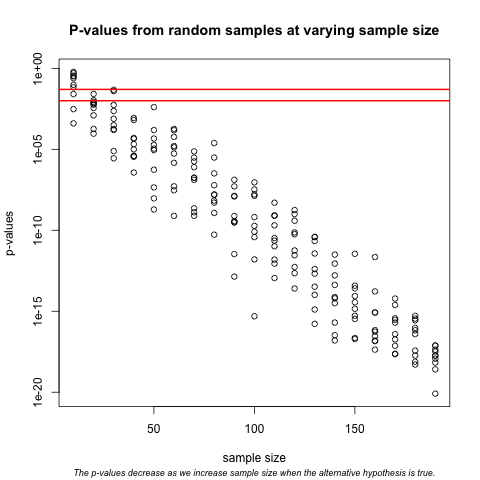
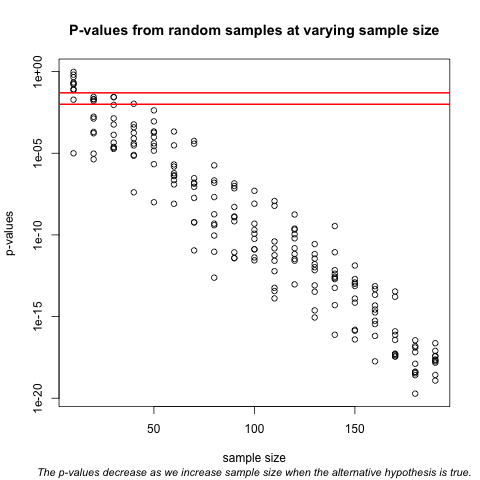
cleaned up figs and code

diff --git a/_episodes/05-power-calc.md b/_episodes/05-power-calc.md
@@ -20,7 +20,6 @@ source: Rmd
 
 
 
-[A Biologist Talks to a Statistician](https://www.youtube.com/watch?v=Hz1fyhVOjr4)
 
 ## Motivator: A retraction
 
@@ -259,8 +258,6 @@ For each of the three simulations, the above code returns the proportion of time
 plot(Ns, power, type="b")
 ~~~
 {: .language-r}
-
-<img src="../fig/rmd-05-power_versus_sample_size-1.png" title="Power plotted against sample size." alt="Power plotted against sample size." style="display: block; margin: auto;" />
 ![](../fig/power-vs-sample-size.png)
 
 Similarly, if we change the level `alpha` at which we reject, power
@@ -281,15 +278,15 @@ plot(alphas, power, xlab="alpha", type="b", log="x")
 ~~~
 {: .language-r}
 
-<img src="../fig/rmd-05-power_versus_alpha-1.png" title="Power plotted against cut-off." alt="Power plotted against cut-off." style="display: block; margin: auto;" />
-
 ![](../fig/power-versus-alpha.png)
 
 Note that the x-axis in this last plot is in the log scale.
 
-There is no "right" power or "right" alpha level, but it is important that you understand what each means.
+There is no "right" power or "right" alpha level, but it is important that you 
+understand what each means.
 
-To see this clearly, you could create a plot with curves of power versus N. Show several curves in the same plot with color representing alpha level.
+To see this clearly, you could create a plot with curves of power versus N.
+Show several curves in the same plot with color representing alpha level.
 
 #### p-values Are Arbitrary under the Alternative Hypothesis
 
@@ -349,8 +346,6 @@ abline(h=c(.01, .05), col="red", lwd=2)
 ~~~
 {: .language-r}
 
-<img src="../fig/rmd-05-pvals_decrease-1.png" title="p-values from random samples at varying sample size. The actual value of the p-values decreases as we increase sample size whenever the alternative hypothesis is true." alt="p-values from random samples at varying sample size. The actual value of the p-values decreases as we increase sample size whenever the alternative hypothesis is true." style="display: block; margin: auto;" />
-
 ![](../fig/pvals-decrease.png)
 
 
@@ -383,29 +378,29 @@ and the confidence interval by the control population mean:
 N <- 12
 hf <- sample(hfPopulation, N)
 control <- sample(controlPopulation, N)
-diff <- mean(hf) - mean(control)
-diff / mean(control) * 100
+diff <- mean(hf, na.rm = TRUE) - mean(control, na.rm = TRUE)
+diff / mean(control, na.rm = TRUE) * 100
 ~~~
 {: .language-r}
 
 
 
 ~~~
-[1] 15.99043
+[1] 9.359123
 ~~~
 {: .output}
 
 
 
 ~~~
-t.test(hf, control)$conf.int / mean(control) * 100
+t.test(hf, control)$conf.int / mean(control, na.rm = TRUE) * 100
 ~~~
 {: .language-r}
 
 
 
 ~~~
-[1] -0.2599845 32.2408348
+[1] -1.600315 20.318560
 attr(,"conf.level")
 [1] 0.95
 ~~~
@@ -418,7 +413,7 @@ deviation of the two groups.
 
 
 ~~~
-sd_pool <- sqrt(((N-1)*var(hf) + (N-1)*var(control))/(2*N - 2))
+sd_pool <- sqrt(((N-1) * var(hf, na.rm = TRUE) + (N-1) * var(control, na.rm = TRUE))/(2*N - 2))
 diff / sd_pool
 ~~~
 {: .language-r}
@@ -426,7 +421,7 @@ diff / sd_pool
 
 
 ~~~
-[1] 0.8331424
+[1] 0.7296231
 ~~~
 {: .output}
 
@@ -468,4 +463,9 @@ increase, the effect size and Cohen's d will become more precise.
 > > ## Solution to Challenge 4
 > > 
 > {: .solution}
+{: .challenge}
+
+> ## Challenge 5: Watch [A Biologist Talks to a Statistician](https://www.youtube.com/watch?v=Hz1fyhVOjr4)
+> Do you empathize more with the biologist or with the statistician?
+> 
 {: .challenge}

diff --git a/_episodes/06-anova.md b/_episodes/06-anova.md
@@ -308,22 +308,22 @@ lm(formula = y ~ x, data = bad_data)
 
 Residuals:
     Min      1Q  Median      3Q     Max 
--1.0005 -0.7007 -0.2880  0.3772  7.7881 
+-1.0358 -0.7368 -0.3318  0.3529  5.7158 
 
 Coefficients:
             Estimate Std. Error t value Pr(>|t|)    
-(Intercept)  0.89999    0.13142   6.848 1.86e-11 ***
-x            0.05185    0.08312   0.624    0.533    
+(Intercept)  0.95038    0.13435   7.074 4.22e-12 ***
+x            0.04290    0.08497   0.505    0.614    
 ---
 Signif. codes:  0 '***' 0.001 '**' 0.01 '*' 0.05 '.' 0.1 ' ' 1
 
-Residual standard error: 1.018 on 598 degrees of freedom
-Multiple R-squared:  0.0006504,	Adjusted R-squared:  -0.001021 
-F-statistic: 0.3892 on 1 and 598 DF,  p-value: 0.533
+Residual standard error: 1.041 on 598 degrees of freedom
+Multiple R-squared:  0.0004262,	Adjusted R-squared:  -0.001245 
+F-statistic: 0.255 on 1 and 598 DF,  p-value: 0.6138
 ~~~
 {: .output}
 
-Notice that the slope (Estimate column) is near zero (0.051853), indicating no relationship between the two variables.
+Notice that the slope (Estimate column) is near zero (0.042904), indicating no relationship between the two variables.
 
 The histogram for the residuals doesn't show a normal distribution, which is one of the three important assumptions for linear models. 
 
